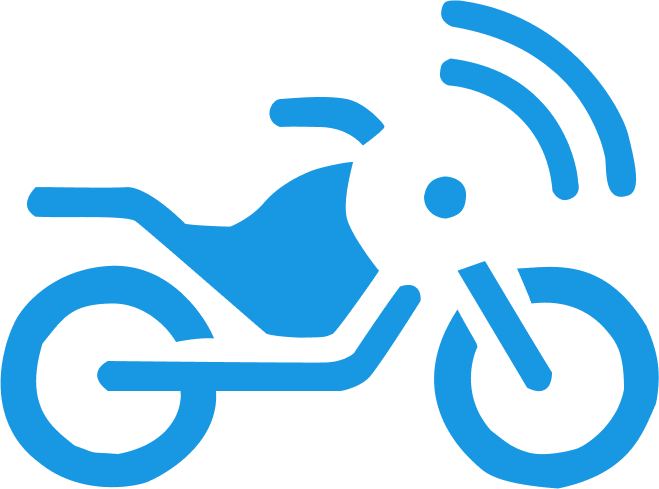
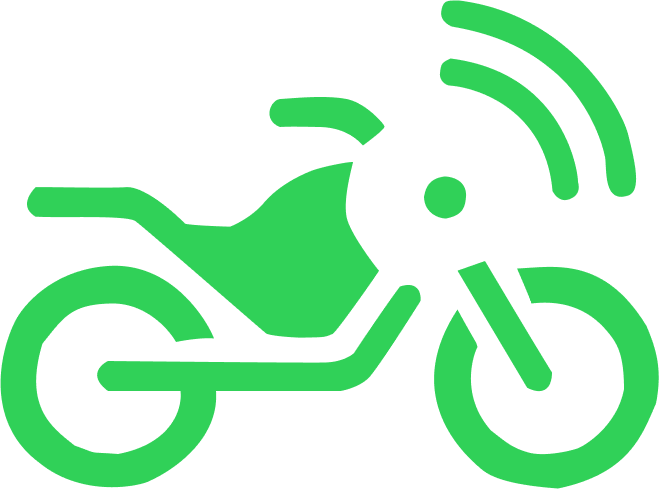
style: theme context added at login screen

diff --git a/src/pages/Login/index.jsx b/src/pages/Login/index.jsx
@@ -10,8 +10,11 @@ import {
 } from "react-native";
 import Icon from "react-native-vector-icons/Ionicons";
 import Btn from "../../_components/Btn";
+import { useTheme } from "../../context/ThemeContext";
 
 export default function Login({ navigation }) {
+  const { colors } = useTheme();
+
   const [hidePassword, setHidePassword] = useState(true);
   const [email, setEmail] = useState("");
   const [password, setPassword] = useState("");
@@ -22,57 +25,65 @@ export default function Login({ navigation }) {
   };
 
   return (
-    <SafeAreaView style={styles.container}>
+    <SafeAreaView
+      style={[styles.container, { backgroundColor: colors.background }]}
+    >
       <View style={styles.logoContainer}>
         <Image
           source={require("../../../assets/lugiatrack.png")}
           style={styles.logo}
           height={100}
         />
+        <Text style={[styles.trackingCode, { color: colors.secondary }]}>
+          Tracking Code
+        </Text>
       </View>
 
       <View style={styles.formContainer}>
-        <View style={styles.inputContainer}>
-          <Text style={styles.label}>Email</Text>
+        <View style={[styles.inputBox, { backgroundColor: colors.surface }]}>
           <TextInput
-            style={styles.input}
-            placeholderTextColor="#666"
-            textContentType="emailAddress"
+            style={[styles.input, { color: colors.textSecondary }]}
+            placeholder="Insira seu e-mail"
+            placeholderTextColor={colors.textSecondary}
             keyboardType="email-address"
+            textContentType="emailAddress"
             value={email}
             onChangeText={setEmail}
-            placeholder="Digite seu email"
+            autoCapitalize="none"
           />
-          <View style={styles.underline} />
         </View>
 
-        <View style={styles.inputContainer}>
-          <Text style={styles.label}>Senha</Text>
-          <View style={styles.passwordContainer}>
+        <View style={[styles.inputBox, { backgroundColor: colors.surface }]}>
+          <View style={styles.passwordRow}>
             <TextInput
-              style={styles.passwordInput}
+              style={[styles.input, { flex: 1, color: colors.textSecondary }]}
+              placeholder="Insira sua senha"
+              placeholderTextColor={colors.textSecondary}
               secureTextEntry={hidePassword}
-              textContentType="password"
-              placeholderTextColor="#666"
               value={password}
               onChangeText={setPassword}
-              placeholder="Digite sua senha"
+              autoCapitalize="none"
             />
             <TouchableOpacity
               onPress={togglePasswordVisibility}
-              style={styles.eyeIcon}
+              style={styles.eyeBtn}
             >
-              <Icon
-                name={hidePassword ? "eye-off" : "eye"}
-                size={24}
-                color="#F97316"
-              />
+              <View style={styles.eyeCircle}>
+                <Icon
+                  name={hidePassword ? "eye-off" : "eye"}
+                  size={22}
+                  color={colors.secondary}
+                />
+              </View>
             </TouchableOpacity>
           </View>
-          <View style={styles.underline} />
         </View>
 
-        {error !== "" && <Text style={styles.errorText}>{error}</Text>}
+        {error !== "" && (
+          <Text style={[styles.errorText, { color: colors.danger }]}>
+            {error}
+          </Text>
+        )}
 
         <Btn txt="Entrar" pressFunc={() => navigation.navigate("Tabs")} />
       </View>
@@ -83,59 +94,60 @@ export default function Login({ navigation }) {
 const styles = StyleSheet.create({
   container: {
     flex: 1,
-    backgroundColor: "#0F1C2D",
     padding: 20,
+  },
+  trackingCode: {
+    fontSize: 40,
+    fontWeight: 600,
   },
   logoContainer: {
     width: "100%",
-    height: 62,
+    display: "flex",
+    flexDirection: "column",
+    height: "25%",
+    gap: "30%",
     paddingTop: "22%",
     alignItems: "center",
   },
   logo: {
     width: 85,
     height: 63,
-    paddingInline: 40,
   },
   formContainer: {
-    flex: 1,
+    flex: 0.75,
+    gap: "5%",
     justifyContent: "center",
-    position: "relative",
-    marginBottom: "30%",
   },
-  inputContainer: {
-    marginBottom: 30,
-  },
-  label: {
-    color: "#F97316",
-    fontSize: 16,
-    marginBottom: 5,
+  inputBox: {
+    borderRadius: 24,
+    paddingHorizontal: 18,
+    height: 56,
+    justifyContent: "center",
+    marginBottom: 24,
   },
   input: {
-    color: "white",
-    fontSize: 16,
-    paddingVertical: 8,
+    fontSize: 20,
+    textAlign: "center",
+    letterSpacing: 1,
   },
-  passwordContainer: {
+  passwordRow: {
     flexDirection: "row",
     alignItems: "center",
   },
-  passwordInput: {
-    flex: 1,
-    color: "white",
-    fontSize: 16,
-    paddingVertical: 8,
+  eyeBtn: {
+    marginLeft: 8,
+    justifyContent: "center",
+    alignItems: "center",
   },
-  eyeIcon: {
-    padding: 4,
-  },
-  underline: {
-    height: 1,
-    backgroundColor: "#F97316",
-    marginTop: 5,
+  eyeCircle: {
+    width: 28,
+    height: 28,
+    borderRadius: 14,
+
+    justifyContent: "center",
+    alignItems: "center",
   },
   errorText: {
-    color: "#f87171",
     textAlign: "center",
     marginBottom: 20,
     fontSize: 14,

diff --git a/App.js b/App.js
@@ -18,14 +18,12 @@ function Tabs() {
   return (
     <Tab.Navigator
       screenOptions={{
-        tabBarActiveTintColor: "#000",
-        tabBarInactiveTintColor: "#444444",
+        tabBarActiveTintColor: "#2D3748",
+        tabBarInactiveTintColor: "#30D158",
         tabBarStyle: {
           height: 60,
-          paddingBottom: 1,
-          paddingHorizontal: 2,
+          paddingBottom: 0.1,
         },
-
         headerShown: false,
       }}
     >
@@ -34,9 +32,8 @@ function Tabs() {
         component={ProcurarMoto}
         options={{
           tabBarIcon: () => <Ionicons name="search" size={26} color="#000" />,
-          tabBarLabel: "Procurar Moto",
-          tabBarActiveBackgroundColor: "#10B981",
-          tabBarInactiveBackgroundColor: "#F97316",
+          tabBarActiveBackgroundColor: "#30D158",
+          tabBarInactiveBackgroundColor: "#2D3748",
         }}
       />
       <Tab.Screen
@@ -46,9 +43,8 @@ function Tabs() {
           tabBarIcon: () => (
             <MaterialCommunityIcons name="garage" size={33} color="#000" />
           ),
-          tabBarLabel: "Pátio",
-          tabBarActiveBackgroundColor: "#10B981",
-          tabBarInactiveBackgroundColor: "#F97316",
+          tabBarActiveBackgroundColor: "#30D158",
+          tabBarInactiveBackgroundColor: "#2D3748",
         }}
       />
       <Tab.Screen
@@ -58,9 +54,8 @@ function Tabs() {
           tabBarIcon: () => (
             <MaterialCommunityIcons name="plus" size={33} color="#000" />
           ),
-          tabBarLabel: "Adicionar moto",
-          tabBarActiveBackgroundColor: "#10B981",
-          tabBarInactiveBackgroundColor: "#F97316",
+          tabBarActiveBackgroundColor: "#30D158",
+          tabBarInactiveBackgroundColor: "#2D3748",
         }}
       />
       <Tab.Screen
@@ -70,9 +65,8 @@ function Tabs() {
           tabBarIcon: () => (
             <Ionicons name="people-sharp" size={28} color="#000" />
           ),
-          tabBarLabel: "Integrantes",
-          tabBarActiveBackgroundColor: "#10B981",
-          tabBarInactiveBackgroundColor: "#F97316",
+          tabBarActiveBackgroundColor: "#30D158",
+          tabBarInactiveBackgroundColor: "#2D3748",
         }}
       />
     </Tab.Navigator>

diff --git a/src/pages/ProcurarMoto/index.jsx b/src/pages/ProcurarMoto/index.jsx
@@ -28,8 +28,6 @@ export default function ProurarMoto({ navigation }) {
       />
       <ContainerScreens>
         <View style={styles.searchContainer}>
-          <Text style={styles.sectionTitle}>Buscar moto</Text>
-
           <View style={styles.inputContainer}>
             <Ionicons
               name="search"
